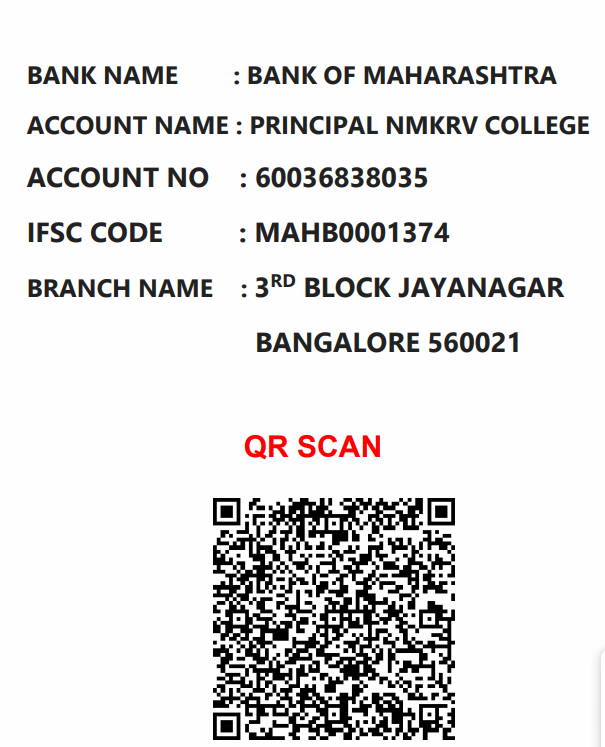
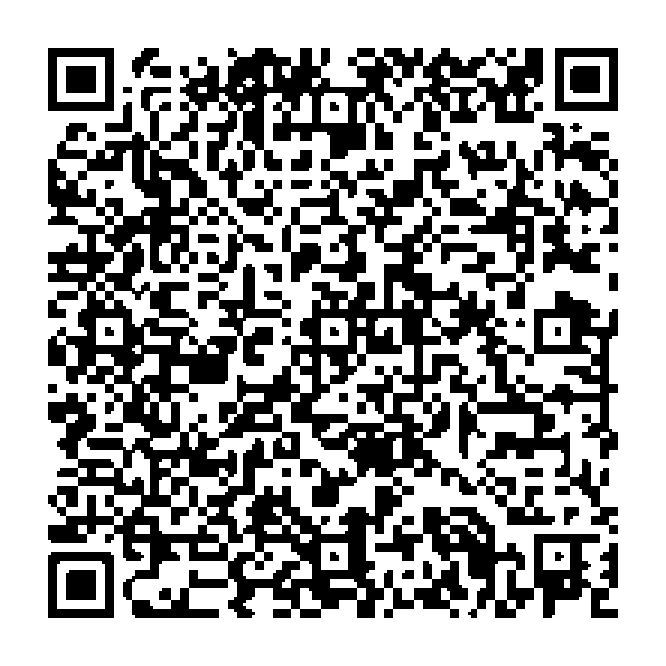
feat: add official Bank of Maharashtra payment credentials and position QR Scan box below

diff --git a/registration.html b/registration.html
@@ -153,40 +153,55 @@
       </div>
 
       <!-- PAYMENT GUIDANCE & BANK TRANSFER DETAILS (SECTION 11) -->
-      <div style="display: grid; grid-template-columns: 1.2fr 0.8fr; gap: 32px; align-items: center;">
-        <div class="glass-card" style="border-color: var(--border-gold-glow);">
-          <h3 style="font-family: var(--font-title); font-size: 1.3rem; color: var(--gold-light); margin-bottom: 16px; display: flex; align-items: center; gap: 10px;">
+      <div style="display: flex; flex-direction: column; gap: 28px; max-width: 900px; margin: 0 auto;">
+        
+        <!-- OFFICIAL BANK PAYMENT DETAILS -->
+        <div class="glass-card" style="border-color: var(--border-gold-glow); padding: 32px;">
+          <h3 style="font-family: var(--font-title); font-size: 1.35rem; color: var(--gold-light); margin-bottom: 12px; display: flex; align-items: center; gap: 10px;">
             <i class="fa-solid fa-building-columns"></i> Official Bank Payment Details
           </h3>
-          <p style="font-size: 0.9rem; color: var(--text-secondary); line-height: 1.65; margin-bottom: 18px;">
-            Participants may transfer registration fees directly to the institutional conference account via NEFT, RTGS, IMPS, or UPI. Retain transaction UTR number / screenshot for registration confirmation.
+          <p style="font-size: 0.92rem; color: var(--text-secondary); line-height: 1.65; margin-bottom: 22px;">
+            Participants may transfer registration fees directly to the institutional conference account via NEFT, RTGS, IMPS, or Net Banking. Retain transaction UTR number / payment screenshot for registration confirmation.
           </p>
-          <div style="display: flex; flex-direction: column; gap: 10px; font-size: 0.9rem;">
-            <div style="background: rgba(4,8,20,0.6); padding: 10px 14px; border-radius: var(--radius-sm); border: 1px solid var(--border-glass);">
-              <strong style="color: #ffffff;">Account Name:</strong> NMKRV College, Bengaluru. / Conference Account
+          <div style="display: grid; grid-template-columns: repeat(auto-fit, minmax(260px, 1fr)); gap: 14px;">
+            <div style="background: rgba(4,8,20,0.65); padding: 14px 18px; border-radius: var(--radius-sm); border: 1px solid var(--border-glass);">
+              <span style="color: var(--text-muted); font-size: 0.78rem; text-transform: uppercase; letter-spacing: 0.08em; display: block; margin-bottom: 4px;">Bank Name</span>
+              <strong style="color: #ffffff; font-size: 1.05rem;">BANK OF MAHARASHTRA</strong>
             </div>
-            <div style="background: rgba(4,8,20,0.6); padding: 10px 14px; border-radius: var(--radius-sm); border: 1px solid var(--border-glass);">
-              <strong style="color: #ffffff;">Bank Name:</strong> Bank of Maharashtra
+            <div style="background: rgba(4,8,20,0.65); padding: 14px 18px; border-radius: var(--radius-sm); border: 1px solid var(--border-glass);">
+              <span style="color: var(--text-muted); font-size: 0.78rem; text-transform: uppercase; letter-spacing: 0.08em; display: block; margin-bottom: 4px;">Account Name</span>
+              <strong style="color: #ffffff; font-size: 1.05rem;">PRINCIPAL NMKRV COLLEGE</strong>
             </div>
-            <div style="background: rgba(4,8,20,0.6); padding: 10px 14px; border-radius: var(--radius-sm); border: 1px solid var(--border-glass);">
-              <strong style="color: #ffffff;">Branch:</strong> Jayanagar, Bengaluru
+            <div style="background: rgba(4,8,20,0.65); padding: 14px 18px; border-radius: var(--radius-sm); border: 1px solid var(--border-glass);">
+              <span style="color: var(--text-muted); font-size: 0.78rem; text-transform: uppercase; letter-spacing: 0.08em; display: block; margin-bottom: 4px;">Account No</span>
+              <strong style="color: var(--cyan-primary); font-family: monospace; font-size: 1.2rem; letter-spacing: 0.06em;">60036838035</strong>
             </div>
-            <div style="background: rgba(4,8,20,0.6); padding: 10px 14px; border-radius: var(--radius-sm); border: 1px solid var(--border-glass);">
-              <strong style="color: #ffffff;">Account No. &amp; IFSC:</strong> <span class="status-badge tbc">[TO BE CONFIRMED]</span>
+            <div style="background: rgba(4,8,20,0.65); padding: 14px 18px; border-radius: var(--radius-sm); border: 1px solid var(--border-glass);">
+              <span style="color: var(--text-muted); font-size: 0.78rem; text-transform: uppercase; letter-spacing: 0.08em; display: block; margin-bottom: 4px;">IFSC Code</span>
+              <strong style="color: var(--gold-light); font-family: monospace; font-size: 1.15rem; letter-spacing: 0.06em;">MAHB0001374</strong>
+            </div>
+            <div style="background: rgba(4,8,20,0.65); padding: 14px 18px; border-radius: var(--radius-sm); border: 1px solid var(--border-glass); grid-column: 1 / -1;">
+              <span style="color: var(--text-muted); font-size: 0.78rem; text-transform: uppercase; letter-spacing: 0.08em; display: block; margin-bottom: 4px;">Branch Name</span>
+              <strong style="color: #ffffff; font-size: 1rem;">3<sup>RD</sup> BLOCK JAYANAGAR, BANGALORE 560021</strong>
             </div>
           </div>
         </div>
 
-        <div class="glass-card" style="text-align: center; border-color: var(--border-cyan-glow);">
-          <h4 style="font-family: var(--font-title); font-size: 1.15rem; color: #ffffff; margin-bottom: 8px;">Quick UPI Payment</h4>
-          <p style="font-size: 0.82rem; color: var(--text-muted); margin-bottom: 16px;">Scan with Google Pay, PhonePe, Paytm, or BHIM</p>
-          <div style="background: #ffffff; padding: 14px; border-radius: var(--radius-md); display: inline-block; box-shadow: 0 0 25px rgba(0,242,254,0.3); margin-bottom: 14px;">
-            <img src="assets/bank_qr.png" alt="Payment QR Code" style="width: 170px; height: 170px; object-fit: contain;">
+        <!-- QR SCAN BOX (BELOW BANK DETAILS) -->
+        <div class="glass-card" style="text-align: center; border-color: var(--border-cyan-glow); padding: 32px; max-width: 460px; margin: 0 auto; width: 100%;">
+          <div style="color: #e11d48; font-weight: 800; font-size: 1.05rem; letter-spacing: 0.14em; text-transform: uppercase; margin-bottom: 8px; display: flex; align-items: center; justify-content: center; gap: 8px;">
+            <i class="fa-solid fa-qrcode"></i> QR SCAN
           </div>
-          <div style="font-size: 0.8rem; color: var(--gold-light); font-weight: 700;">
-            <i class="fa-solid fa-lock"></i> Verified NMKRV Conference QR
+          <h4 style="font-family: var(--font-title); font-size: 1.25rem; color: #ffffff; margin-bottom: 6px;">Quick UPI Payment</h4>
+          <p style="font-size: 0.85rem; color: var(--text-muted); margin-bottom: 18px;">Scan with Google Pay, PhonePe, Paytm, or BHIM</p>
+          <div style="background: #ffffff; padding: 16px; border-radius: var(--radius-md); display: inline-block; box-shadow: 0 0 35px rgba(0,242,254,0.35); margin-bottom: 16px;">
+            <img src="assets/bank_qr.png" alt="Official NMKRV Payment QR Code" style="width: 210px; height: 210px; object-fit: contain; display: block; border-radius: 4px;">
+          </div>
+          <div style="font-size: 0.85rem; color: var(--gold-light); font-weight: 700; display: flex; align-items: center; justify-content: center; gap: 6px;">
+            <i class="fa-solid fa-circle-check" style="color: var(--emerald-primary);"></i> Verified NMKRV College Account
           </div>
         </div>
+
       </div>
 
     </div>
